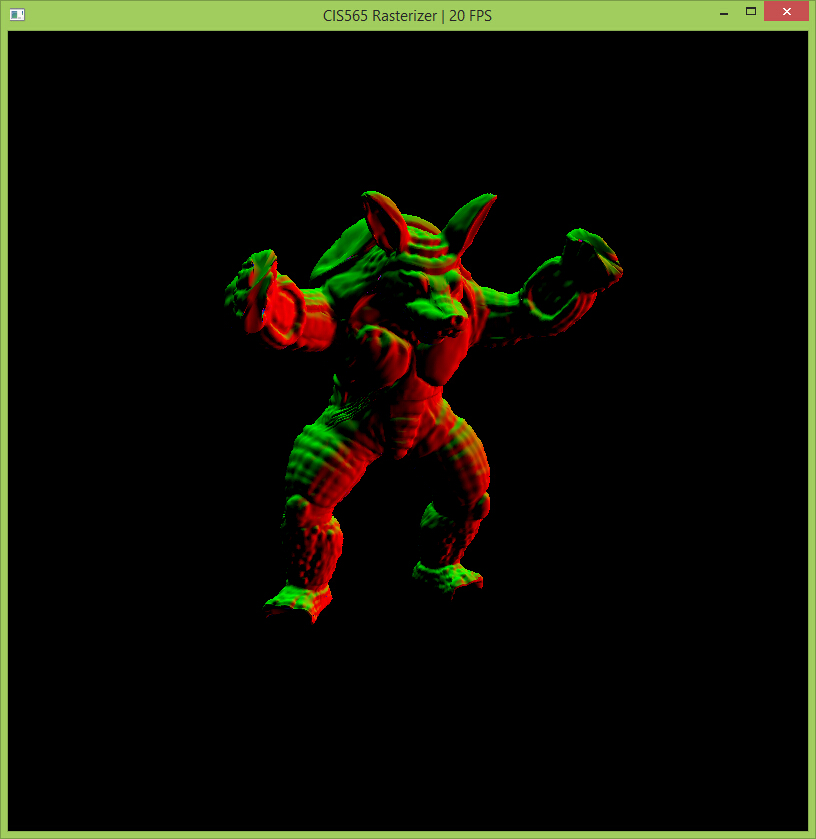
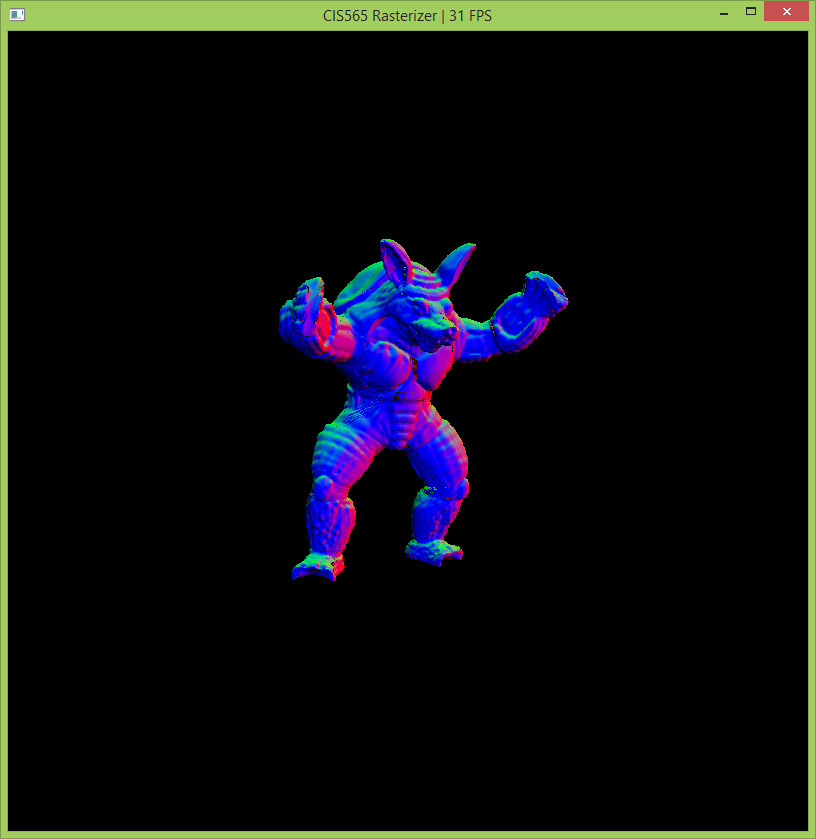
readme update

Changed region(s): [[0.2757, 0.2169, 0.7659, 0.7437], [0.5515, 0.0, 0.5821, 0.031]]

diff --git a/external/src/objUtil/obj.cpp b/external/src/objUtil/obj.cpp
@@ -94,7 +94,7 @@ void obj::buildVBOs(){
 		ibo[i] = IBOvec[i];
 	}
 
-	setColor(glm::vec3(.9f,0.8f,0.1f));
+	setColor(glm::vec3(.9f,0.6f,0.3f));
 }
 
 void obj::compareMaxMin(float x, float y, float z){

diff --git a/README.md b/README.md
@@ -22,6 +22,9 @@ The following is a quick overview of the structure and features of my rasterizor
 * Color interpolation
 
 ###Reulsts
+
+[Video Demo] (https://www.youtube.com/watch?v=_TUVPTLyZR0&list=UU8ix41TAtWn-RDD6gC8ml3A)
+
 Tyra (200,000 faces)
 ![](tyra1.jpg)
 
@@ -46,33 +49,84 @@ Dragon (100,000 faces) - vertices
 ###Implementation Details
 * Vertex Shading
 
-gather
+Takes in vertex buffer, normal buffer and modelView matrix and transform vertices and normals to camera space. CUDA Kernel parallel on vertex i.e. each thread deals with one vertex.
 
 * Primitive Assembly
+
+Takes in vertex buffer, normal buffer and index buffer, then assembles them into primitives as an array of triangles, the normal for the triangle is calculated here and stored in the triangle.
+CUDA Kernel parallel on every three vertices i.e. each thread deals with 3 vertices (1 triangle).
+
 * Back-Face Culling
+
+Given the array of primitives, it removes triangles that faces away from the camera according to its normal. The removal uses Thrust::remove_if for maximum efficiency.
+
+#####Performance impact of back-face culling
+
+Model| No Back-face culling| with Back-face culling
+----- | ----- | -----
+bunny (5,800 faces)| 19 FPS | 26 FPS
+dragon (100,000 faces) |16 FPS | 22 FPS
+Tyra (200,000 faces) | 18 FPS | 24 FPS
+
+From the table, we can see, the performance gain of back-face culling is about 40%, independent of number of faces. This makes sense, about 50% of faces are back faces, and the 10% is probably a result of stream compacting
+the primitive array.
+
 * Scanline rasterization
+CUDA Kernel parallel on primitive i.e. each thread deals with one triangle. Several tasks are done in this stage. First of all, it transforms all all vertices and normals of the triangle into NDC space.
+Then, it calculates a bounding box of the triangle, and it loops through all fragments within this box. For each fragment, it calculates its barycentric coordiates in the triangle. Fragment will be discarded if
+it's Not in the triangle (according to its barycentric coordinates). If it's in the triangle, using the barycentric coordinates, a correctly interpolated color and normals will be calculated.
+Finally, it checks the pixel this fragment occupies in the depthbuffer and tests whether this fragment is in front of the one in the buffer, if yes, then we swap in this fragment. While this is happening this position
+in the depth buffer is locked. The lock is created using a bufferIsLockFlag array and CUDA atomic exchange function. This ensures there's no conflict of multiple threads trying to read and write to the same location in the
+depthbuffer.
+
 * Fragment Shading
+
+It calculates the local illumination (diffuse + specular + ambient) of the given fragment. Up to user's choice, it can either treats each triangle as flat or as smooth by using interpolated normal for each fragment.
+CUDA Kernel parallel on each fragmenti.e. each thread deals with one fragment in the depthbuffer.
+
 * Render
+
+transfers data from depthbuffer to framebuffer. No other fancy stuff happens here, however, this stage will be very useful if there's translucent surface in the scene.
 
 ###Other features:
 
 *Mouse-based interactive camera.
-*Mesh View
-*Vertices View
-*Color interpolation
-Click and drag to rotate camera, scroll to zoom in and out. 
+
+Click and drag to rotate, scroll to zoom in and out. 
+
 W,A,S,D to move camera position.
 
-Used GLFW glfwGetMouseButton,glfwGetCursorPos for getting necessary inputs for setting up the camera according to mouse movement.
+F to toggle flat/phong shading.
 
+M to toggle shaded/mesh view.
 
+It's implemented using GLFW glfwGetMouseButton,glfwGetCursorPos for getting necessary inputs for setting up the camera according to mouse movement.
 
+*Mesh View
 
+This is done at the rasterization stage, where according to the barycentric coordinates of the fragment, it decides whether it's on an edge. Fragments that are not on any edge will be flagged as discarded.
+
+*Vertices View
+
+This is done in rasterization stage, where it only produces fragments that are the vertices of the given triangle.
+
+*Color interpolation
+
+In the rasterization stage, the color of the fragment is interpolated among the 3 vertex colors of the triangle using barycentric coordinates.
 
 
 
 ###Performance Analysis
 Graphics Card: NVIDIA GeForce GTX 660
+
+model: stanford bunny ( 5,804 faces )
+
+![] (chart1.jpg)
+
+From the graph, it's clear that when objects are further from the camera the higher FPS. This is because each triangle takes up less pixels, thus the loop through all pixels for each primitives will be much faster.
+
+From other tests, I also found that the number of faces does not matter very much to the FPS, however the size of each triangle matters the most since the rasterization parallels on each triangle.
+Thus the rasterizor is most efficient when there's a large number of triangles and each covers small area on the screen and overall the sizes of triangles has as little variance as possible.
 
 
 
